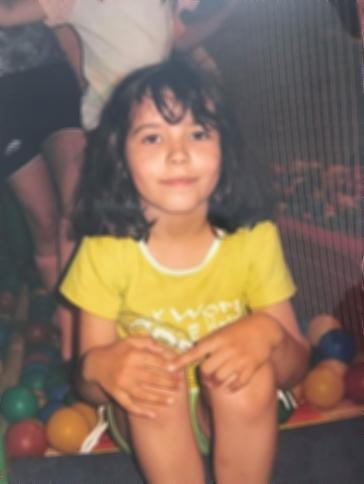
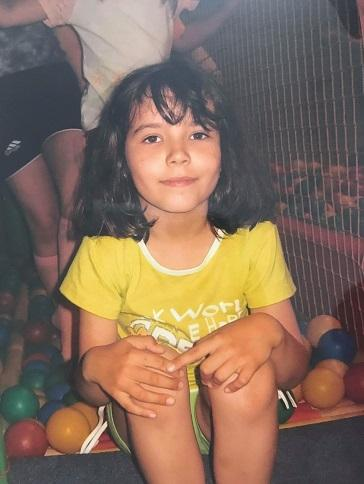
Naprawa sliderw rgb

diff --git a/src/sample/Controller.java b/src/sample/Controller.java
@@ -40,11 +40,10 @@ public class Controller {
 
     BufferedImage ORbimg;
     BufferedImage bimg;
-    BufferedImage dstbimg;              //ten na ktorym dokonujemy rozmycia, wyostrzenia itd.
+    BufferedImage dstbimg;                                  //ten na ktorym dokonujemy rozmycia, wyostrzenia itd.
     Image img=null;
     ImageView imgView;
-    boolean toolSelected = false;
-    GraphicsContext brushTool;
+
 
     public void openNew() throws IOException {                          //otworz nowy plik
 
@@ -53,16 +52,22 @@ public class Controller {
         int height = ORbimg.getHeight();
         int rgb;
         bimg = new BufferedImage(width, height, BufferedImage.TYPE_INT_RGB);        //robimy typ INT_RGB
-        for(int i=0; i < width;i++){
-            for(int j=0; j<height;j++){
-                rgb = ORbimg.getRGB(i,j);
-                bimg.setRGB(i,j,rgb);
+        for (int i = 0; i < width; i++) {
+            for (int j = 0; j < height; j++) {
+                rgb = ORbimg.getRGB(i, j);
+                bimg.setRGB(i, j, rgb);
             }
         }
-        img = new Image("ola.jpg");
-        imgView = new ImageView(img);
-        zdjecie.getChildren().add(imgView);
-
+        dstbimg = new BufferedImage(width, height, BufferedImage.TYPE_INT_RGB);        //robimy typ INT_RGB
+        for (int i = 0; i < width; i++) {
+            for (int j = 0; j < height; j++) {
+                rgb = ORbimg.getRGB(i, j);
+                dstbimg.setRGB(i, j, rgb);
+            }
+            img = new Image("ola.jpg");
+            imgView = new ImageView(img);
+            zdjecie.getChildren().add(imgView);
+        }
     }
 
 
@@ -80,21 +85,20 @@ public class Controller {
     }
 
     public void turn90() throws IOException {                           //obrot 90
-        int width = bimg.getHeight();
-        int height = bimg.getWidth();
+        int width = dstbimg.getHeight();
+        int height = dstbimg.getWidth();
         BufferedImage bimg90 = new BufferedImage(width,height,BufferedImage.TYPE_INT_RGB);
         int rgb=0;
 
-        for (int i = 0; i < width; i++) {               //wysokosc starego
-            for (int j = 0; j < height; j++) {          //szerokosc starego
-                rgb = bimg.getRGB(j, i);                //i = height, j=width starego
-                bimg90.setRGB(width-i-1, j, rgb);
+            for (int i = 0; i < width; i++) {               //wysokosc starego
+                for (int j = 0; j < height; j++) {          //szerokosc starego
+                    rgb = dstbimg.getRGB(j, i);                //i = height, j=width starego
+                    bimg90.setRGB(width - i - 1, j, rgb);
+                }
             }
-        }
 
-        bimg = new BufferedImage(width,height, BufferedImage.TYPE_INT_RGB);
-        bimg = bimg90;
-        ImageIO.write(bimg, "jpg", new File("src\\ola2.jpg"));
+        dstbimg = bimg90;
+        ImageIO.write(dstbimg, "jpg", new File("src\\ola2.jpg"));
         img = new Image(new File("src\\ola2.jpg").toURI().toString());
         imgView = new ImageView(img);
         zdjecie.getChildren().clear();
@@ -103,19 +107,19 @@ public class Controller {
 
     public void turn180() throws IOException {                          //obrot 180
 
-        BufferedImage turned_bimg = new BufferedImage(bimg.getWidth(),bimg.getHeight(),BufferedImage.TYPE_INT_RGB);
-        int width = bimg.getWidth();
-        int height = bimg.getHeight();
+        BufferedImage turned_bimg = new BufferedImage(dstbimg.getWidth(),dstbimg.getHeight(),BufferedImage.TYPE_INT_RGB);
+        int width = dstbimg.getWidth();
+        int height = dstbimg.getHeight();
         int rgb=0;
 
         for(int i=0; i<width;i++){
             for(int j=0; j<height;j++){
-                rgb = bimg.getRGB(i,j);
+                rgb = dstbimg.getRGB(i,j);
                 turned_bimg.setRGB((width-i-1),(height-j-1),rgb);
             }
         }
-        bimg = turned_bimg;
-        ImageIO.write(bimg, "jpg", new File("src\\ola2.jpg"));
+        dstbimg = turned_bimg;
+        ImageIO.write(dstbimg, "jpg", new File("src\\ola2.jpg"));
         img = new Image(new File("src\\ola2.jpg").toURI().toString());
         imgView = new ImageView(img);
         zdjecie.getChildren().clear();
@@ -134,9 +138,6 @@ public class Controller {
         for(int i=0; i<(rozm*rozm);i++)
             matrix[i] = wartosc_matrix;                     //ustawiamy wartosci macierzy filtrujacej
 
-        int width = bimg.getWidth();
-        int height = bimg.getHeight();
-        dstbimg = new BufferedImage(width ,height ,BufferedImage.TYPE_INT_RGB);
         Kernel kernel = new Kernel(rozm,rozm,matrix);
         ConvolveOp cop = new ConvolveOp(kernel, ConvolveOp.EDGE_NO_OP, null);
         cop.filter(bimg,dstbimg);                                                           //filtrujemy
@@ -150,6 +151,7 @@ public class Controller {
     }
 
     public void dragDone2() {                                           //jasnosc
+        System.out.println("wywoalnie");
     }
 
     public void dragDone3() throws IOException {                                            //ostrosc
@@ -175,13 +177,100 @@ public class Controller {
         zdjecie.getChildren().add(imgView);
     }
 
-    public void dragDone4() {                                           //czerwony
+    public void dragDone4() throws IOException {                                           //czerwony
+
+
+        double czerwony = czerwonySlider.getValue();
+        int r = (int) czerwony;
+        int width,height;
+        int red,green,blue,rgb;
+
+            width =  dstbimg.getWidth();
+            height = dstbimg.getHeight();
+            for(int i=0; i<width; i++){
+                for(int j=0; j< height; j++){
+                    rgb = bimg.getRGB(i,j);
+                    red = (rgb >> 16) & 0xFF;
+                    green = (rgb >> 8) & 0xFF;
+                    blue = rgb & 0xFF;
+                    red += r;
+                    if(red < 0) red = 0;                    //przekroczenie wartosci
+                    if( red > 255) red = 255;
+                    rgb = ((red&0x0ff)<<16)|((green&0x0ff)<<8)|(blue&0x0ff);
+
+                    dstbimg.setRGB(i,j,rgb);
+                }
+            }
+
+        ImageIO.write(dstbimg, "jpg", new File("src\\ola2.jpg"));
+        img = new Image(new File("src\\ola2.jpg").toURI().toString());
+        imgView = new ImageView(img);
+        zdjecie.getChildren().clear();
+        zdjecie.getChildren().add(imgView);
+
+
     }
 
-    public void dragDone5() {                                           //zielony
+    public void dragDone5() throws IOException {                                           //zielony
+
+        double zielony = zielonySlider.getValue();
+        int g = (int) zielony;
+        int width,height;
+        int red,green,blue,rgb;
+
+        width =  dstbimg.getWidth();
+        height = dstbimg.getHeight();
+        for(int i=0; i<width; i++){
+            for(int j=0; j< height; j++){
+                rgb = bimg.getRGB(i,j);
+                red = (rgb >> 16) & 0xFF;
+                green = (rgb >> 8) & 0xFF;
+                blue = rgb & 0xFF;
+                green += g;
+                if(green < 0) green = 0;                    //przekroczenie wartosci
+                if( green > 255) green = 255;
+                rgb = ((red&0x0ff)<<16)|((green&0x0ff)<<8)|(blue&0x0ff);
+
+                dstbimg.setRGB(i,j,rgb);
+            }
+        }
+
+        ImageIO.write(dstbimg, "jpg", new File("src\\ola2.jpg"));
+        img = new Image(new File("src\\ola2.jpg").toURI().toString());
+        imgView = new ImageView(img);
+        zdjecie.getChildren().clear();
+        zdjecie.getChildren().add(imgView);
     }
 
-    public void dragDone6() {                                           //niebieski
+    public void dragDone6() throws IOException {                                           //niebieski
+
+        double niebieski = niebieskiSlider.getValue();
+        int b = (int) niebieski;
+        int width,height;
+        int red,green,blue,rgb;
+
+        width =  dstbimg.getWidth();
+        height = dstbimg.getHeight();
+        for(int i=0; i<width; i++){
+            for(int j=0; j< height; j++){
+                rgb = bimg.getRGB(i,j);
+                red = (rgb >> 16) & 0xFF;
+                green = (rgb >> 8) & 0xFF;
+                blue = rgb & 0xFF;
+                blue += b;
+                if(blue < 0) blue = 0;                    //przekroczenie wartosci
+                if( blue > 255) blue = 255;
+                rgb = ((red&0x0ff)<<16)|((green&0x0ff)<<8)|(blue&0x0ff);
+
+                dstbimg.setRGB(i,j,rgb);
+            }
+        }
+
+        ImageIO.write(dstbimg, "jpg", new File("src\\ola2.jpg"));
+        img = new Image(new File("src\\ola2.jpg").toURI().toString());
+        imgView = new ImageView(img);
+        zdjecie.getChildren().clear();
+        zdjecie.getChildren().add(imgView);
     }
 }
 
